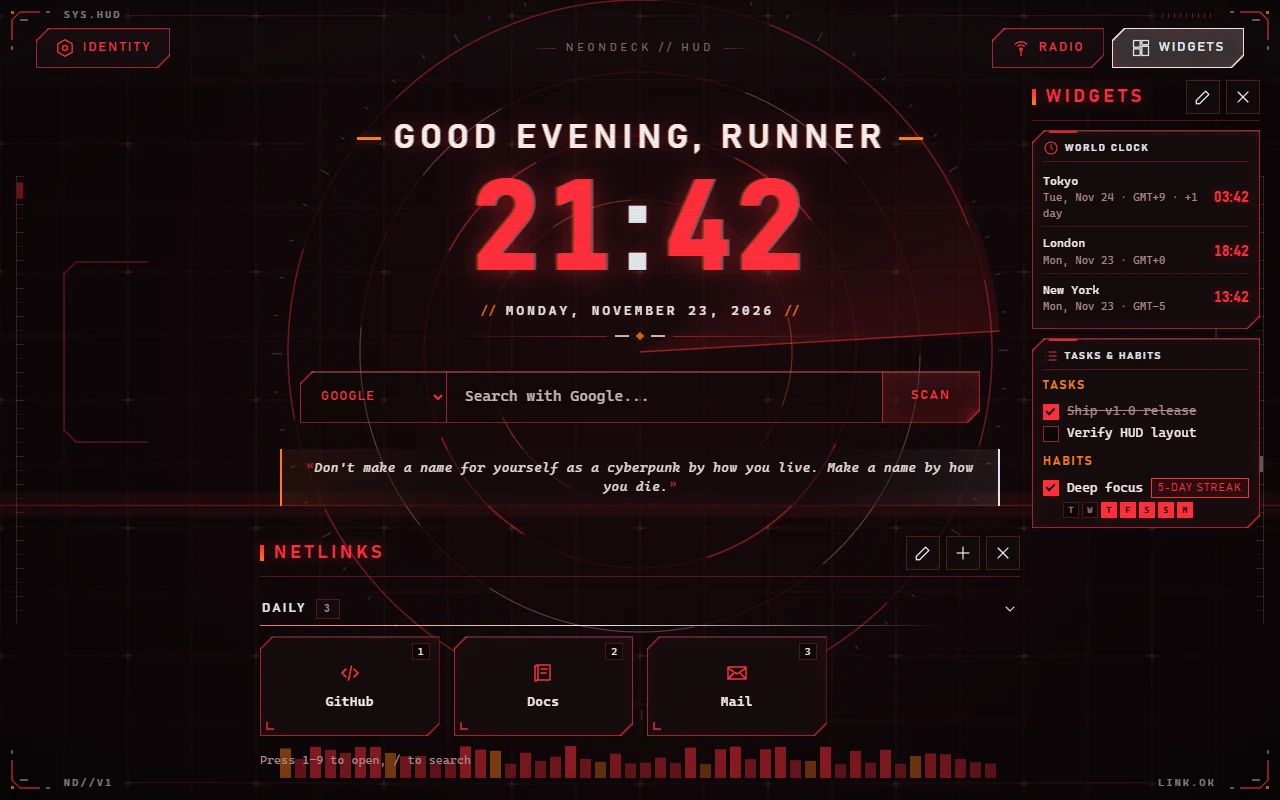
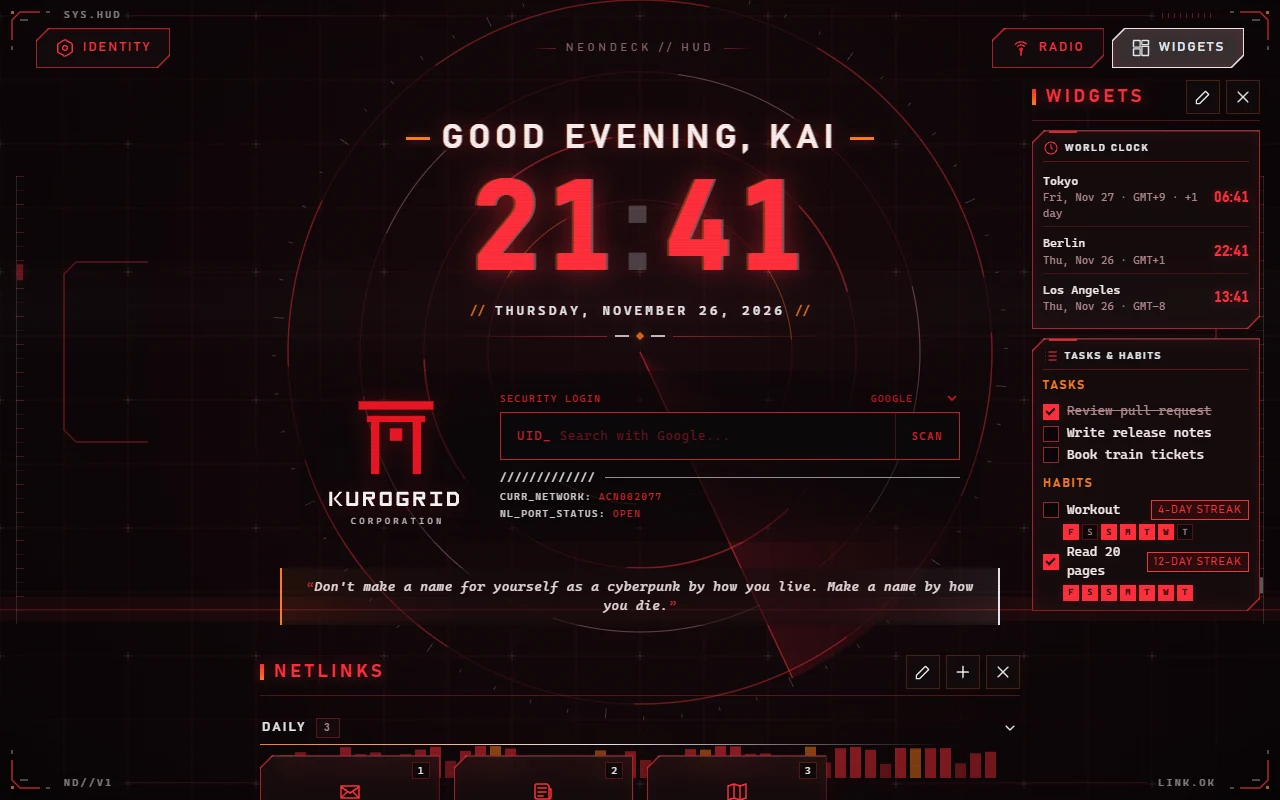
NEONDECK gallery: new Arasaka screenshot

diff --git a/neondeck/index.html b/neondeck/index.html
@@ -53,7 +53,7 @@
 
 <section class="section"><div class="wrap">
 <h2>Screenshots</h2>
-<div class="shots"><a class="shot cut" href="/assets/neondeck/01-edgerunners.webp?v=3"><img src="/assets/neondeck/01-edgerunners.webp?v=3" alt="Edgerunners theme: neon rooftop wallpaper, weather and Pomodoro dial" width="1280" height="800" loading="lazy"></a><a class="shot cut" href="/assets/neondeck/02-arasaka.webp?v=3"><img src="/assets/neondeck/02-arasaka.webp?v=3" alt="Arasaka theme: red corporate HUD with radar, world clock, tasks and habit streaks" width="1280" height="800" loading="lazy"></a><a class="shot cut" href="/assets/neondeck/03-samurai.webp?v=3"><img src="/assets/neondeck/03-samurai.webp?v=3" alt="Samurai theme: night overpass wallpaper and theme music in the ambient sound widget" width="1280" height="800" loading="lazy"></a><a class="shot cut" href="/assets/neondeck/04-ghost.webp?v=3"><img src="/assets/neondeck/04-ghost.webp?v=3" alt="Ghost theme: green cyberspace cathedral, scratchpad notes and Pomodoro" width="1280" height="800" loading="lazy"></a><a class="shot cut" href="/assets/neondeck/05-orchid.webp?v=3"><img src="/assets/neondeck/05-orchid.webp?v=3" alt="Acid Orchid theme: purple megacity, weather and world clock" width="1280" height="800" loading="lazy"></a><a class="shot cut" href="/assets/neondeck/06-settings.webp?v=3"><img src="/assets/neondeck/06-settings.webp?v=3" alt="Settings: five themes and live wallpapers, or upload your own" width="1280" height="800" loading="lazy"></a><a class="shot cut" href="/assets/neondeck/07-widgets.webp?v=3"><img src="/assets/neondeck/07-widgets.webp?v=3" alt="Widget manager: drag and drop to reorder, AI quick access links" width="1280" height="800" loading="lazy"></a></div>
+<div class="shots"><a class="shot cut" href="/assets/neondeck/01-edgerunners.webp?v=3"><img src="/assets/neondeck/01-edgerunners.webp?v=3" alt="Edgerunners theme: neon rooftop wallpaper, weather and Pomodoro dial" width="1280" height="800" loading="lazy"></a><a class="shot cut" href="/assets/neondeck/02-arasaka.webp?v=4"><img src="/assets/neondeck/02-arasaka.webp?v=4" alt="Arasaka theme: red corporate HUD with radar, Security Login search panel, world clock, tasks and habit streaks" width="1280" height="800" loading="lazy"></a><a class="shot cut" href="/assets/neondeck/03-samurai.webp?v=3"><img src="/assets/neondeck/03-samurai.webp?v=3" alt="Samurai theme: night overpass wallpaper and theme music in the ambient sound widget" width="1280" height="800" loading="lazy"></a><a class="shot cut" href="/assets/neondeck/04-ghost.webp?v=3"><img src="/assets/neondeck/04-ghost.webp?v=3" alt="Ghost theme: green cyberspace cathedral, scratchpad notes and Pomodoro" width="1280" height="800" loading="lazy"></a><a class="shot cut" href="/assets/neondeck/05-orchid.webp?v=3"><img src="/assets/neondeck/05-orchid.webp?v=3" alt="Acid Orchid theme: purple megacity, weather and world clock" width="1280" height="800" loading="lazy"></a><a class="shot cut" href="/assets/neondeck/06-settings.webp?v=3"><img src="/assets/neondeck/06-settings.webp?v=3" alt="Settings: five themes and live wallpapers, or upload your own" width="1280" height="800" loading="lazy"></a><a class="shot cut" href="/assets/neondeck/07-widgets.webp?v=3"><img src="/assets/neondeck/07-widgets.webp?v=3" alt="Widget manager: drag and drop to reorder, AI quick access links" width="1280" height="800" loading="lazy"></a></div>
 </div></section>
 
 <section class="section"><div class="wrap">
